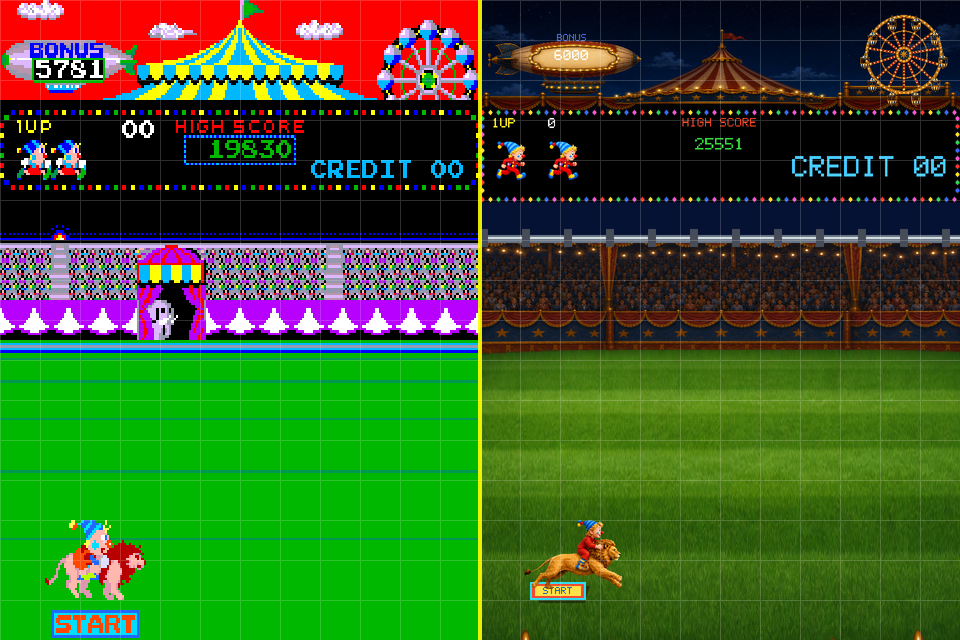
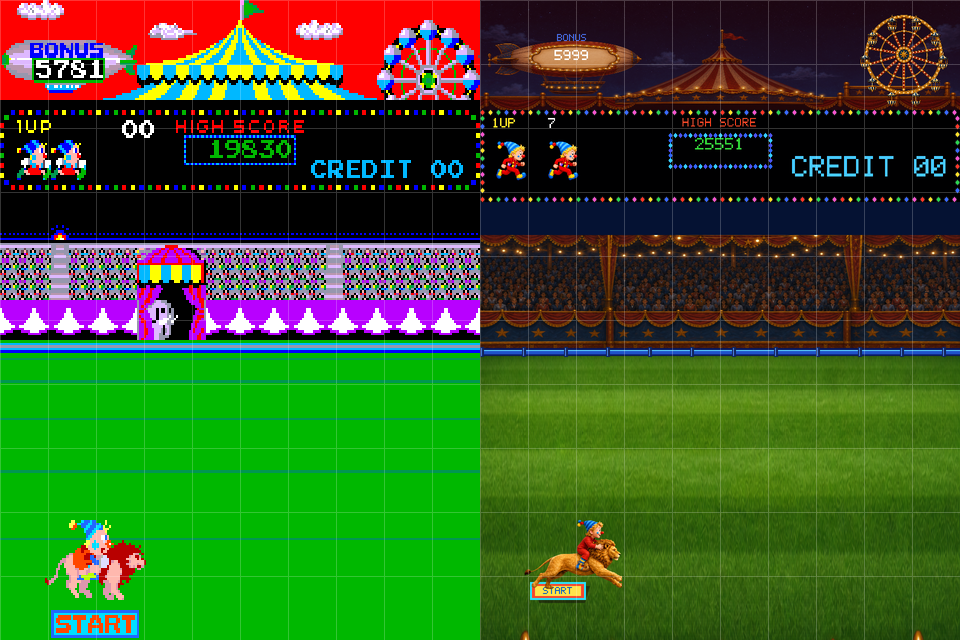
Restore Stage 1 rail and arcade HUD details

diff --git a/src/main.cpp b/src/main.cpp
@@ -31,9 +31,9 @@ constexpr float kStage2MonkeySpeed = 52.0F;
 constexpr float kStage2PurpleSpeed = 61.0F;
 constexpr float kStage2GoalTopY = kStage2RopeY - 76.0F;
 constexpr float kStage2GoalX = 5700.0F;
-// The ring rail sits directly beneath the score panel/crowd header in the
-// original board (about source y=94), not above a large empty sky gap.
-constexpr float kTrackY = 235.0F;
+// The original board places the ring tube directly below the crowd fascia
+// (about source y=140), not at the top of the crowd.
+constexpr float kTrackY = 350.0F;
 constexpr float kBackSpeed = -150.0F;
 constexpr float kForwardSpeed = 195.0F;
 constexpr float kRingRailSpeed = 65.0F;
@@ -1850,15 +1850,23 @@ RenderSurface buildRenderSurface(SDL_Renderer* renderer, SDL_Window* window,
 }
 
 void drawCeilingTrack(SDL_Renderer* renderer, float cameraX) {
-  fillRect(renderer, 0.0F, kTrackY, kWorldWidth, 8.0F,
-           color(104, 117, 133));
-  fillRect(renderer, 0.0F, kTrackY + 2.0F, kWorldWidth, 2.0F,
-           color(214, 222, 226));
+  // The cabinet uses a slim blue multi-line tube under the crowd fascia.
+  // Preserve that silhouette in HD instead of drawing railroad-like ties.
+  fillRect(renderer, 0.0F, kTrackY - 2.0F, kWorldWidth, 8.0F,
+           color(8, 24, 92));
+  fillRect(renderer, 0.0F, kTrackY, kWorldWidth, 4.0F,
+           color(31, 83, 202));
+  fillRect(renderer, 0.0F, kTrackY, kWorldWidth, 1.25F,
+           color(92, 206, 255));
+  fillRect(renderer, 0.0F, kTrackY + 4.0F, kWorldWidth, 1.0F,
+           color(17, 42, 132));
   for (int clamp = -1; clamp < 14; ++clamp) {
     const float x = static_cast<float>(clamp * 42) -
                     std::fmod(cameraX, 42.0F);
-    fillRect(renderer, x, kTrackY - 6.0F, 8.0F, 18.0F,
-             color(70, 76, 88));
+    fillRect(renderer, x, kTrackY - 3.0F, 4.0F, 10.0F,
+             color(16, 35, 93));
+    fillRect(renderer, x + 1.0F, kTrackY - 2.0F, 1.0F, 8.0F,
+             color(76, 130, 225));
   }
 }
 
@@ -1911,6 +1919,13 @@ void drawZeppelinBonus(SDL_Renderer* renderer, int bonus) {
            color(255, 255, 255), true);
 }
 
+void drawReddishMarqueeSky(SDL_Renderer* renderer) {
+  // A translucent carnival-red wash brings the HD night painting closer to
+  // the original board's red sky without replacing the existing tent art.
+  fillRect(renderer, 0.0F, 0.0F, kWorldWidth, kMarqueeHeight,
+           color(112, 12, 18, 64));
+}
+
 void drawBackdrop(SDL_Renderer* renderer, float cameraX, bool lowDetail,
                   const Assets& assets, const Game& game,
                   double timeSeconds) {
@@ -1925,6 +1940,7 @@ void drawBackdrop(SDL_Renderer* renderer, float cameraX, bool lowDetail,
         0.0F, 0.0F, static_cast<float>(kWorldWidth), kMarqueeHeight};
     SDL_RenderCopyF(renderer, assets.marquee, nullptr,
                     &marqueeDestination);
+    drawReddishMarqueeSky(renderer);
   } else {
     if (!lowDetail) {
       for (int index = 0; index < 24; ++index) {
@@ -2087,9 +2103,10 @@ void drawStageProps(SDL_Renderer* renderer, const Game& game, float cameraX,
     const float screenX = ring.worldX - cameraX;
     if (screenX < -100.0F || screenX > kWorldWidth + 100.0F) continue;
     const float ringCenterY = kGroundY - ring.height;
+    // The texture's target rectangle contains transparent vertical padding.
+    // Connect the trolley to the visible flame crown, not the target top.
     line(renderer, screenX, kTrackY + 5.0F, screenX,
-         ringCenterY - kBonusRingVisualHalfHeight + 8.0F,
-         color(119, 101, 73));
+         ringCenterY - 58.0F, color(119, 101, 73));
     // Like the original board's category-0 tiles, the animated flame rim is
     // deferred to the foreground pass. The hanger and prize remain here.
     if (ring.containsPrize && !ring.collected) {
@@ -2686,6 +2703,29 @@ void drawHudBulbs(SDL_Renderer* renderer) {
   }
 }
 
+void drawHighScoreBulbs(SDL_Renderer* renderer) {
+  constexpr float left = 190.0F;
+  constexpr float top = kHudTop + 25.0F;
+  constexpr float width = 100.0F;
+  constexpr float height = 31.0F;
+  const std::array<SDL_Color, 3> bulbs{
+      color(48, 104, 255), color(53, 204, 255), color(76, 83, 239)};
+  for (int index = 0; index <= 20; ++index) {
+    const float x = left + static_cast<float>(index) * 5.0F;
+    const SDL_Color glow = bulbs[static_cast<std::size_t>(index % 3)];
+    filledCircle(renderer, x, top, 1.35F, glow);
+    filledCircle(renderer, x, top + height, 1.35F,
+                 bulbs[static_cast<std::size_t>((index + 1) % 3)]);
+  }
+  for (int index = 1; index < 6; ++index) {
+    const float y = top + static_cast<float>(index) * 5.0F;
+    filledCircle(renderer, left, y, 1.35F,
+                 bulbs[static_cast<std::size_t>((index + 2) % 3)]);
+    filledCircle(renderer, left + width, y, 1.35F,
+                 bulbs[static_cast<std::size_t>(index % 3)]);
+  }
+}
+
 void drawHud(SDL_Renderer* renderer, const Game& game,
              SDL_Texture* charlieTexture) {
   fillRect(renderer, 0.0F, kHudTop, kWorldWidth, kHudHeight,
@@ -2704,6 +2744,7 @@ void drawHud(SDL_Renderer* renderer, const Game& game,
 
   drawText(renderer, "HIGH SCORE", kWorldWidth * 0.5F, kHudTop + 8.0F,
            1.25F, color(245, 70, 37), true);
+  drawHighScoreBulbs(renderer);
   drawText(renderer, std::to_string(game.highScore),
            kWorldWidth * 0.5F, kHudTop + 28.0F, 1.65F,
            color(51, 213, 57), true);
@@ -2729,6 +2770,7 @@ void drawCoinWaitingScreen(SDL_Renderer* renderer, const Game& game,
     const SDL_FRect marqueeDestination{
         0.0F, 0.0F, static_cast<float>(kWorldWidth), kMarqueeHeight};
     SDL_RenderCopyF(renderer, assets.marquee, nullptr, &marqueeDestination);
+    drawReddishMarqueeSky(renderer);
   }
   drawFerrisWheel(renderer, assets.ferrisWheel, assets.ferrisGondola,
                   timeSeconds);
@@ -2814,6 +2856,7 @@ void drawEventSelectionScreen(SDL_Renderer* renderer, const Game& game,
     const SDL_FRect marqueeDestination{
         0.0F, 0.0F, static_cast<float>(kWorldWidth), kMarqueeHeight};
     SDL_RenderCopyF(renderer, assets.marquee, nullptr, &marqueeDestination);
+    drawReddishMarqueeSky(renderer);
   }
   drawFerrisWheel(renderer, assets.ferrisWheel, assets.ferrisGondola,
                   timeSeconds);
@@ -2912,6 +2955,7 @@ void drawStage2Backdrop(SDL_Renderer* renderer, const Game& game,
     const SDL_FRect marqueeDestination{
         0.0F, 0.0F, static_cast<float>(kWorldWidth), kMarqueeHeight};
     SDL_RenderCopyF(renderer, assets.marquee, nullptr, &marqueeDestination);
+    drawReddishMarqueeSky(renderer);
   }
   drawFerrisWheel(renderer, assets.ferrisWheel, assets.ferrisGondola,
                   timeSeconds);
@@ -3098,6 +3142,7 @@ void drawTallyScreen(SDL_Renderer* renderer, const Game& game,
     const SDL_FRect marqueeDestination{
         0.0F, 0.0F, static_cast<float>(kWorldWidth), kMarqueeHeight};
     SDL_RenderCopyF(renderer, assets.marquee, nullptr, &marqueeDestination);
+    drawReddishMarqueeSky(renderer);
   }
   drawFerrisWheel(renderer, assets.ferrisWheel, assets.ferrisGondola,
                   timeSeconds);

diff --git a/docs/PHYSICS.md b/docs/PHYSICS.md
@@ -43,7 +43,7 @@ audio, or code are included in this project.
   to approximately `101 × 70` pixels on the `480 × 640` logical canvas.
 - A permanent `layout` capture scene places the MAME frame and remake on the
   same `480 × 640` grid. It calibrates the fixed marquee to `0–110`, the HUD
-  to `110–202`, the rail to `y = 235`, the crowd/fascia to `235–350`, grass
+  to `110–202`, the crowd/fascia to `235–350`, the rail to `y = 350`, grass
   to `350–640`, and the rider's ground contact to `y = 590`. The decorative
   front-stage curtain is intentionally cropped out because it is absent from
   the Event 1 playfield.
@@ -52,7 +52,7 @@ audio, or code are included in this project.
   roughly `80` to `16` source pixels above that contact, with its usable
   opening approximately `74` to `24` source pixels above it.
 - The measured HD placement was raised after hands-on collision testing. The
-  rail is at logical `y = 235`; the large-ring opening runs from logical
+  rail is at logical `y = 350`; the large-ring opening runs from logical
   `y = 367` to `y = 504`. This aligns the
   lion's collision body with the opening at the fixed jump apex. The long
   decorative pole in the HD source image is cropped out so the ring rides
@@ -74,7 +74,7 @@ Measured motion targets:
 - Peak displacement: `55 source pixels` / `137.5 logical units`
 - Takeoff-to-landing time: `63 frames` / approximately `1.0395 seconds`
 - Ground height: `590 logical units`
-- Ceiling tube height: `235 logical units`
+- Ceiling tube height: `350 logical units`
 - Lion collision box: follows the lion's body rather than the transparent
   margins, mane, tail, or Charlie's upper-body artwork. Its horizontal center
   is offset `20` logical units from the sprite's world anchor, measured from

diff --git a/docs/STAGE1_LAYOUT_CALIBRATION.md b/docs/STAGE1_LAYOUT_CALIBRATION.md
@@ -9,8 +9,9 @@ This avoids estimating positions from differently sized screenshots.
 - Fixed marquee: `y = 0–110`
 - Score and lives panel: `y = 110–202`
 - Black separation band: `y = 202–235`
-- Moving ring rail and top of crowd: `y = 235`
+- Top of crowd: `y = 235`
 - Crowd plus grandstand fascia: `y = 235–350`
+- Moving ring rail directly below the crowd fascia: `y = 350`
 - Uninterrupted grass: `y = 350–640`
 - Grounded lion contact: `y = 590`
 - Grounded rider/lion visible size: approximately `100 x 70`
